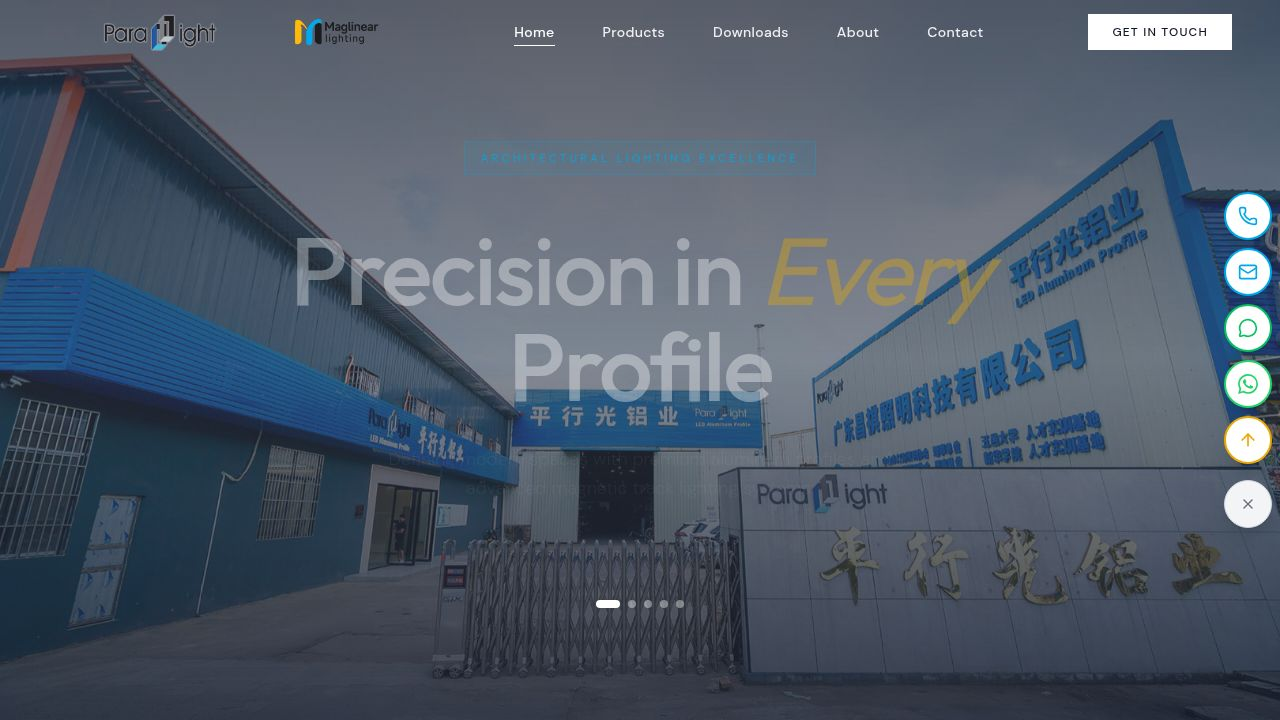
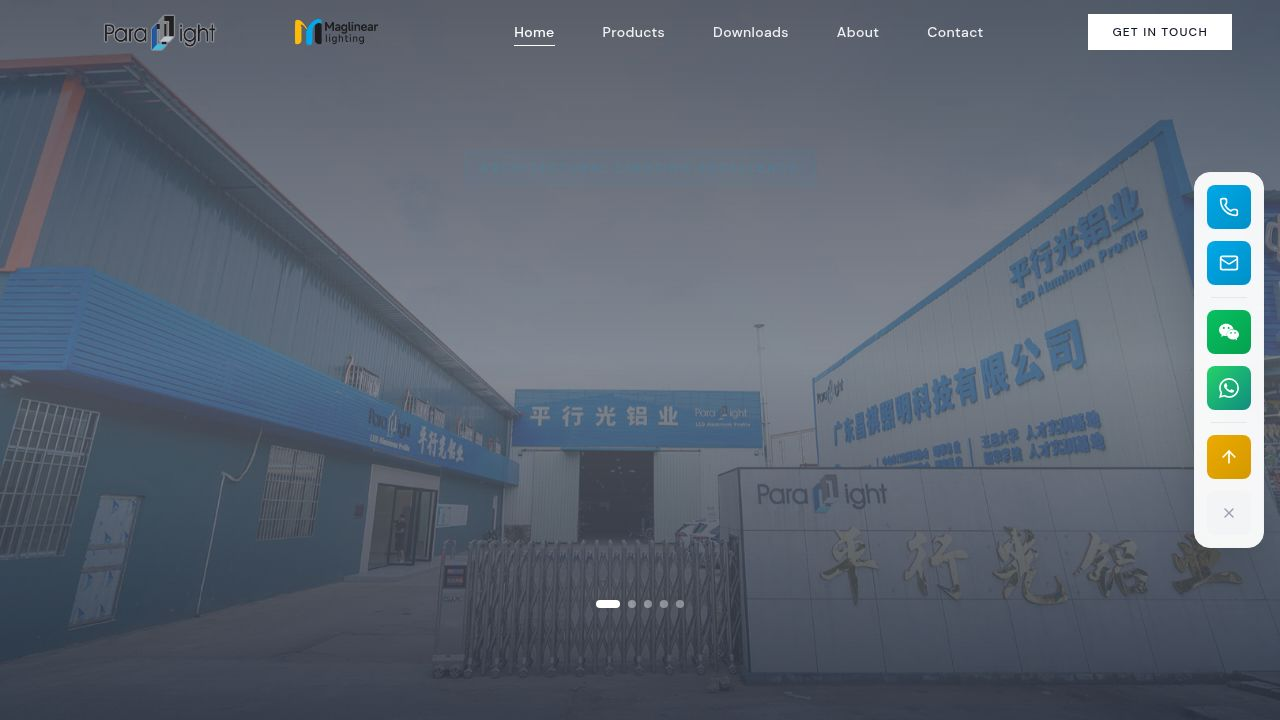
Redesign floating sidebar with modern card-style elements and gradient buttons
Update FloatingSidebar.tsx to implement a new UI design featuring a card-style container, gradient buttons with hover effects, and improved popover labels for contact information.

Replit-Commit-Author: Agent
Replit-Commit-Session-Id: ca843556-2833-4763-ae71-02df3a9ed408
Replit-Commit-Checkpoint-Type: full_checkpoint
Replit-Commit-Event-Id: ab6f7838-2e6c-441f-afe2-8de5fe95f605
Replit-Commit-Screenshot-Url: https://storage.googleapis.com/screenshot-production-us-central1/d7454a2c-912c-46eb-af8e-019f96d76874/ca843556-2833-4763-ae71-02df3a9ed408/mIrw2JA
Replit-Helium-Checkpoint-Created: true

diff --git a/client/src/components/layout/FloatingSidebar.tsx b/client/src/components/layout/FloatingSidebar.tsx
@@ -1,5 +1,5 @@
 import { useState } from "react";
-import { Phone, Mail, ArrowUp, X, MessageCircle, ChevronLeft } from "lucide-react";
+import { Phone, Mail, ArrowUp, X, ChevronLeft } from "lucide-react";
 import { motion, AnimatePresence } from "framer-motion";
 
 export default function FloatingSidebar() {
@@ -30,120 +30,130 @@ export default function FloatingSidebar() {
             animate={{ x: 0, opacity: 1 }}
             exit={{ x: 100, opacity: 0 }}
             transition={{ duration: 0.3 }}
-            className="fixed right-0 top-1/2 -translate-y-1/2 z-50 flex flex-col gap-2 p-2"
+            className="fixed right-4 top-1/2 -translate-y-1/2 z-50"
           >
-            <div
-              className="relative group"
-              onMouseEnter={() => setShowPhone(true)}
-              onMouseLeave={() => setShowPhone(false)}
-            >
-              <button className="w-12 h-12 rounded-full bg-white border-2 border-[#00A8E8] text-[#00A8E8] hover:bg-[#00A8E8] hover:text-white transition-all duration-300 flex items-center justify-center shadow-lg">
-                <Phone className="w-5 h-5" />
+            <div className="bg-white/95 backdrop-blur-sm rounded-2xl shadow-2xl border border-gray-100 p-3 flex flex-col gap-3">
+              <div
+                className="relative group"
+                onMouseEnter={() => setShowPhone(true)}
+                onMouseLeave={() => setShowPhone(false)}
+              >
+                <button className="w-11 h-11 rounded-xl bg-gradient-to-br from-[#00A8E8] to-[#0090c8] text-white hover:shadow-lg hover:shadow-[#00A8E8]/30 hover:scale-105 transition-all duration-300 flex items-center justify-center">
+                  <Phone className="w-5 h-5" />
+                </button>
+                <AnimatePresence>
+                  {showPhone && (
+                    <motion.div
+                      initial={{ opacity: 0, x: 10, scale: 0.95 }}
+                      animate={{ opacity: 1, x: 0, scale: 1 }}
+                      exit={{ opacity: 0, x: 10, scale: 0.95 }}
+                      className="absolute right-14 top-1/2 -translate-y-1/2 bg-white rounded-xl shadow-2xl px-5 py-3 whitespace-nowrap border border-gray-100"
+                    >
+                      <div className="text-[10px] uppercase tracking-widest text-gray-400 mb-1">Call Us</div>
+                      <a href={`tel:${companyPhone}`} className="text-sm font-semibold text-gray-800 hover:text-[#00A8E8] transition-colors">
+                        {companyPhone}
+                      </a>
+                    </motion.div>
+                  )}
+                </AnimatePresence>
+              </div>
+
+              <div
+                className="relative group"
+                onMouseEnter={() => setShowEmail(true)}
+                onMouseLeave={() => setShowEmail(false)}
+              >
+                <button className="w-11 h-11 rounded-xl bg-gradient-to-br from-[#00A8E8] to-[#0090c8] text-white hover:shadow-lg hover:shadow-[#00A8E8]/30 hover:scale-105 transition-all duration-300 flex items-center justify-center">
+                  <Mail className="w-5 h-5" />
+                </button>
+                <AnimatePresence>
+                  {showEmail && (
+                    <motion.div
+                      initial={{ opacity: 0, x: 10, scale: 0.95 }}
+                      animate={{ opacity: 1, x: 0, scale: 1 }}
+                      exit={{ opacity: 0, x: 10, scale: 0.95 }}
+                      className="absolute right-14 top-1/2 -translate-y-1/2 bg-white rounded-xl shadow-2xl px-5 py-3 whitespace-nowrap border border-gray-100"
+                    >
+                      <div className="text-[10px] uppercase tracking-widest text-gray-400 mb-1">Email Us</div>
+                      <a href={`mailto:${companyEmail}`} className="text-sm font-semibold text-gray-800 hover:text-[#00A8E8] transition-colors">
+                        {companyEmail}
+                      </a>
+                    </motion.div>
+                  )}
+                </AnimatePresence>
+              </div>
+
+              <div className="h-px bg-gray-200 mx-1" />
+
+              <div
+                className="relative group"
+                onMouseEnter={() => setShowWeChat(true)}
+                onMouseLeave={() => setShowWeChat(false)}
+              >
+                <button className="w-11 h-11 rounded-xl bg-gradient-to-br from-[#07C160] to-[#06a050] text-white hover:shadow-lg hover:shadow-[#07C160]/30 hover:scale-105 transition-all duration-300 flex items-center justify-center">
+                  <svg className="w-5 h-5" viewBox="0 0 24 24" fill="currentColor">
+                    <path d="M8.691 2.188C3.891 2.188 0 5.476 0 9.53c0 2.212 1.17 4.203 3.002 5.55a.59.59 0 0 1 .213.665l-.39 1.48c-.019.07-.048.141-.048.213 0 .163.13.295.29.295a.326.326 0 0 0 .167-.054l1.903-1.114a.864.864 0 0 1 .717-.098 10.16 10.16 0 0 0 2.837.403c.276 0 .543-.027.811-.05-.857-2.578.157-4.972 1.932-6.446 1.703-1.415 3.882-1.98 5.853-1.838-.576-3.583-4.196-6.348-8.596-6.348zM5.785 5.991c.642 0 1.162.529 1.162 1.18a1.17 1.17 0 0 1-1.162 1.178A1.17 1.17 0 0 1 4.623 7.17c0-.651.52-1.18 1.162-1.18zm5.813 0c.642 0 1.162.529 1.162 1.18a1.17 1.17 0 0 1-1.162 1.178 1.17 1.17 0 0 1-1.162-1.178c0-.651.52-1.18 1.162-1.18zm5.34 2.867c-1.797-.052-3.746.512-5.28 1.786-1.72 1.428-2.687 3.72-1.78 6.22.942 2.453 3.666 4.229 6.884 4.229.826 0 1.622-.12 2.361-.336a.722.722 0 0 1 .598.082l1.584.926a.272.272 0 0 0 .14.045c.134 0 .24-.111.24-.247 0-.06-.023-.12-.038-.177l-.327-1.233a.582.582 0 0 1-.023-.156.49.49 0 0 1 .201-.398C23.024 18.48 24 16.82 24 14.98c0-3.21-2.931-5.837-6.656-6.088V8.89c-.135-.01-.269-.03-.407-.032zm-2.53 3.274c.535 0 .969.44.969.982a.976.976 0 0 1-.969.983.976.976 0 0 1-.969-.983c0-.542.434-.982.97-.982zm4.844 0c.535 0 .969.44.969.982a.976.976 0 0 1-.969.983.976.976 0 0 1-.969-.983c0-.542.434-.982.969-.982z"/>
+                  </svg>
+                </button>
+                <AnimatePresence>
+                  {showWeChat && (
+                    <motion.div
+                      initial={{ opacity: 0, x: 10, scale: 0.95 }}
+                      animate={{ opacity: 1, x: 0, scale: 1 }}
+                      exit={{ opacity: 0, x: 10, scale: 0.95 }}
+                      className="absolute right-14 top-1/2 -translate-y-1/2 bg-white rounded-2xl shadow-2xl p-4 border border-gray-100"
+                    >
+                      <div className="w-64 h-auto">
+                        <img src="/wechat-qr.png?v=4" alt="WeChat QR Code" className="w-full h-auto object-contain rounded-lg" />
+                      </div>
+                    </motion.div>
+                  )}
+                </AnimatePresence>
+              </div>
+
+              <div
+                className="relative group"
+                onMouseEnter={() => setShowWhatsApp(true)}
+                onMouseLeave={() => setShowWhatsApp(false)}
+              >
+                <button className="w-11 h-11 rounded-xl bg-gradient-to-br from-[#25D366] to-[#128C7E] text-white hover:shadow-lg hover:shadow-[#25D366]/30 hover:scale-105 transition-all duration-300 flex items-center justify-center">
+                  <svg className="w-5 h-5" viewBox="0 0 24 24" fill="currentColor">
+                    <path d="M17.472 14.382c-.297-.149-1.758-.867-2.03-.967-.273-.099-.471-.148-.67.15-.197.297-.767.966-.94 1.164-.173.199-.347.223-.644.075-.297-.15-1.255-.463-2.39-1.475-.883-.788-1.48-1.761-1.653-2.059-.173-.297-.018-.458.13-.606.134-.133.298-.347.446-.52.149-.174.198-.298.298-.497.099-.198.05-.371-.025-.52-.075-.149-.669-1.612-.916-2.207-.242-.579-.487-.5-.669-.51-.173-.008-.371-.01-.57-.01-.198 0-.52.074-.792.372-.272.297-1.04 1.016-1.04 2.479 0 1.462 1.065 2.875 1.213 3.074.149.198 2.096 3.2 5.077 4.487.709.306 1.262.489 1.694.625.712.227 1.36.195 1.871.118.571-.085 1.758-.719 2.006-1.413.248-.694.248-1.289.173-1.413-.074-.124-.272-.198-.57-.347m-5.421 7.403h-.004a9.87 9.87 0 01-5.031-1.378l-.361-.214-3.741.982.998-3.648-.235-.374a9.86 9.86 0 01-1.51-5.26c.001-5.45 4.436-9.884 9.888-9.884 2.64 0 5.122 1.03 6.988 2.898a9.825 9.825 0 012.893 6.994c-.003 5.45-4.437 9.884-9.885 9.884m8.413-18.297A11.815 11.815 0 0012.05 0C5.495 0 .16 5.335.157 11.892c0 2.096.547 4.142 1.588 5.945L.057 24l6.305-1.654a11.882 11.882 0 005.683 1.448h.005c6.554 0 11.89-5.335 11.893-11.893a11.821 11.821 0 00-3.48-8.413z"/>
+                  </svg>
+                </button>
+                <AnimatePresence>
+                  {showWhatsApp && (
+                    <motion.div
+                      initial={{ opacity: 0, x: 10, scale: 0.95 }}
+                      animate={{ opacity: 1, x: 0, scale: 1 }}
+                      exit={{ opacity: 0, x: 10, scale: 0.95 }}
+                      className="absolute right-14 top-1/2 -translate-y-1/2 bg-white rounded-2xl shadow-2xl p-4 border border-gray-100"
+                    >
+                      <div className="w-64 h-auto">
+                        <img src="/whatsapp-qr.png" alt="WhatsApp QR Code" className="w-full h-auto object-contain rounded-lg" />
+                      </div>
+                    </motion.div>
+                  )}
+                </AnimatePresence>
+              </div>
+
+              <div className="h-px bg-gray-200 mx-1" />
+
+              <button
+                onClick={scrollToTop}
+                className="w-11 h-11 rounded-xl bg-gradient-to-br from-[#ECAA00] to-[#d49900] text-white hover:shadow-lg hover:shadow-[#ECAA00]/30 hover:scale-105 transition-all duration-300 flex items-center justify-center"
+              >
+                <ArrowUp className="w-5 h-5" />
               </button>
-              <AnimatePresence>
-                {showPhone && (
-                  <motion.div
-                    initial={{ opacity: 0, x: 10 }}
-                    animate={{ opacity: 1, x: 0 }}
-                    exit={{ opacity: 0, x: 10 }}
-                    className="absolute right-14 top-1/2 -translate-y-1/2 bg-white border border-gray-200 rounded-lg shadow-xl px-4 py-2 whitespace-nowrap"
-                  >
-                    <a href={`tel:${companyPhone}`} className="text-sm font-medium text-gray-700 hover:text-[#00A8E8]">
-                      {companyPhone}
-                    </a>
-                  </motion.div>
-                )}
-              </AnimatePresence>
-            </div>
 
-            <div
-              className="relative group"
-              onMouseEnter={() => setShowEmail(true)}
-              onMouseLeave={() => setShowEmail(false)}
-            >
-              <button className="w-12 h-12 rounded-full bg-white border-2 border-[#00A8E8] text-[#00A8E8] hover:bg-[#00A8E8] hover:text-white transition-all duration-300 flex items-center justify-center shadow-lg">
-                <Mail className="w-5 h-5" />
+              <button
+                onClick={() => setIsVisible(false)}
+                className="w-11 h-11 rounded-xl bg-gray-100 text-gray-400 hover:bg-gray-200 hover:text-gray-600 transition-all duration-300 flex items-center justify-center"
+                title="Hide sidebar"
+              >
+                <X className="w-4 h-4" />
               </button>
-              <AnimatePresence>
-                {showEmail && (
-                  <motion.div
-                    initial={{ opacity: 0, x: 10 }}
-                    animate={{ opacity: 1, x: 0 }}
-                    exit={{ opacity: 0, x: 10 }}
-                    className="absolute right-14 top-1/2 -translate-y-1/2 bg-white border border-gray-200 rounded-lg shadow-xl px-4 py-2 whitespace-nowrap"
-                  >
-                    <a href={`mailto:${companyEmail}`} className="text-sm font-medium text-gray-700 hover:text-[#00A8E8]">
-                      {companyEmail}
-                    </a>
-                  </motion.div>
-                )}
-              </AnimatePresence>
             </div>
-
-            <div
-              className="relative group"
-              onMouseEnter={() => setShowWeChat(true)}
-              onMouseLeave={() => setShowWeChat(false)}
-            >
-              <button className="w-12 h-12 rounded-full bg-white border-2 border-[#07C160] text-[#07C160] hover:bg-[#07C160] hover:text-white transition-all duration-300 flex items-center justify-center shadow-lg">
-                <MessageCircle className="w-5 h-5" />
-              </button>
-              <AnimatePresence>
-                {showWeChat && (
-                  <motion.div
-                    initial={{ opacity: 0, x: 10 }}
-                    animate={{ opacity: 1, x: 0 }}
-                    exit={{ opacity: 0, x: 10 }}
-                    className="absolute right-14 top-1/2 -translate-y-1/2 bg-white border border-gray-200 rounded-xl shadow-xl p-4"
-                  >
-                    <div className="w-72 h-auto">
-                      <img src="/wechat-qr.png?v=4" alt="WeChat QR Code" className="w-full h-auto object-contain" />
-                    </div>
-                  </motion.div>
-                )}
-              </AnimatePresence>
-            </div>
-
-            <div
-              className="relative group"
-              onMouseEnter={() => setShowWhatsApp(true)}
-              onMouseLeave={() => setShowWhatsApp(false)}
-            >
-              <button className="w-12 h-12 rounded-full bg-white border-2 border-[#25D366] text-[#25D366] hover:bg-[#25D366] hover:text-white transition-all duration-300 flex items-center justify-center shadow-lg">
-                <svg className="w-5 h-5" viewBox="0 0 24 24" fill="currentColor">
-                  <path d="M17.472 14.382c-.297-.149-1.758-.867-2.03-.967-.273-.099-.471-.148-.67.15-.197.297-.767.966-.94 1.164-.173.199-.347.223-.644.075-.297-.15-1.255-.463-2.39-1.475-.883-.788-1.48-1.761-1.653-2.059-.173-.297-.018-.458.13-.606.134-.133.298-.347.446-.52.149-.174.198-.298.298-.497.099-.198.05-.371-.025-.52-.075-.149-.669-1.612-.916-2.207-.242-.579-.487-.5-.669-.51-.173-.008-.371-.01-.57-.01-.198 0-.52.074-.792.372-.272.297-1.04 1.016-1.04 2.479 0 1.462 1.065 2.875 1.213 3.074.149.198 2.096 3.2 5.077 4.487.709.306 1.262.489 1.694.625.712.227 1.36.195 1.871.118.571-.085 1.758-.719 2.006-1.413.248-.694.248-1.289.173-1.413-.074-.124-.272-.198-.57-.347m-5.421 7.403h-.004a9.87 9.87 0 01-5.031-1.378l-.361-.214-3.741.982.998-3.648-.235-.374a9.86 9.86 0 01-1.51-5.26c.001-5.45 4.436-9.884 9.888-9.884 2.64 0 5.122 1.03 6.988 2.898a9.825 9.825 0 012.893 6.994c-.003 5.45-4.437 9.884-9.885 9.884m8.413-18.297A11.815 11.815 0 0012.05 0C5.495 0 .16 5.335.157 11.892c0 2.096.547 4.142 1.588 5.945L.057 24l6.305-1.654a11.882 11.882 0 005.683 1.448h.005c6.554 0 11.89-5.335 11.893-11.893a11.821 11.821 0 00-3.48-8.413z"/>
-                </svg>
-              </button>
-              <AnimatePresence>
-                {showWhatsApp && (
-                  <motion.div
-                    initial={{ opacity: 0, x: 10 }}
-                    animate={{ opacity: 1, x: 0 }}
-                    exit={{ opacity: 0, x: 10 }}
-                    className="absolute right-14 top-1/2 -translate-y-1/2 bg-white border border-gray-200 rounded-xl shadow-xl p-4"
-                  >
-                    <div className="w-72 h-auto">
-                      <img src="/whatsapp-qr.png" alt="WhatsApp QR Code" className="w-full h-auto object-contain" />
-                    </div>
-                  </motion.div>
-                )}
-              </AnimatePresence>
-            </div>
-
-            <button
-              onClick={scrollToTop}
-              className="w-12 h-12 rounded-full bg-white border-2 border-[#ECAA00] text-[#ECAA00] hover:bg-[#ECAA00] hover:text-white transition-all duration-300 flex items-center justify-center shadow-lg"
-            >
-              <ArrowUp className="w-5 h-5" />
-            </button>
-
-            <button
-              onClick={() => setIsVisible(false)}
-              className="w-12 h-12 rounded-full bg-gray-100 border border-gray-300 text-gray-500 hover:bg-gray-200 transition-all duration-300 flex items-center justify-center shadow-lg mt-2"
-              title="Hide sidebar"
-            >
-              <X className="w-4 h-4" />
-            </button>
           </motion.div>
         )}
       </AnimatePresence>
@@ -155,7 +165,7 @@ export default function FloatingSidebar() {
             animate={{ x: 0, opacity: 1 }}
             exit={{ x: 100, opacity: 0 }}
             onClick={() => setIsVisible(true)}
-            className="fixed right-0 top-1/2 -translate-y-1/2 z-50 w-8 h-16 bg-[#00A8E8] text-white rounded-l-lg shadow-lg flex items-center justify-center hover:bg-[#0090c8] transition-colors"
+            className="fixed right-0 top-1/2 -translate-y-1/2 z-50 w-10 h-20 bg-gradient-to-b from-[#00A8E8] to-[#0090c8] text-white rounded-l-xl shadow-lg flex items-center justify-center hover:w-12 transition-all duration-300"
             title="Show contact options"
           >
             <ChevronLeft className="w-5 h-5" />
